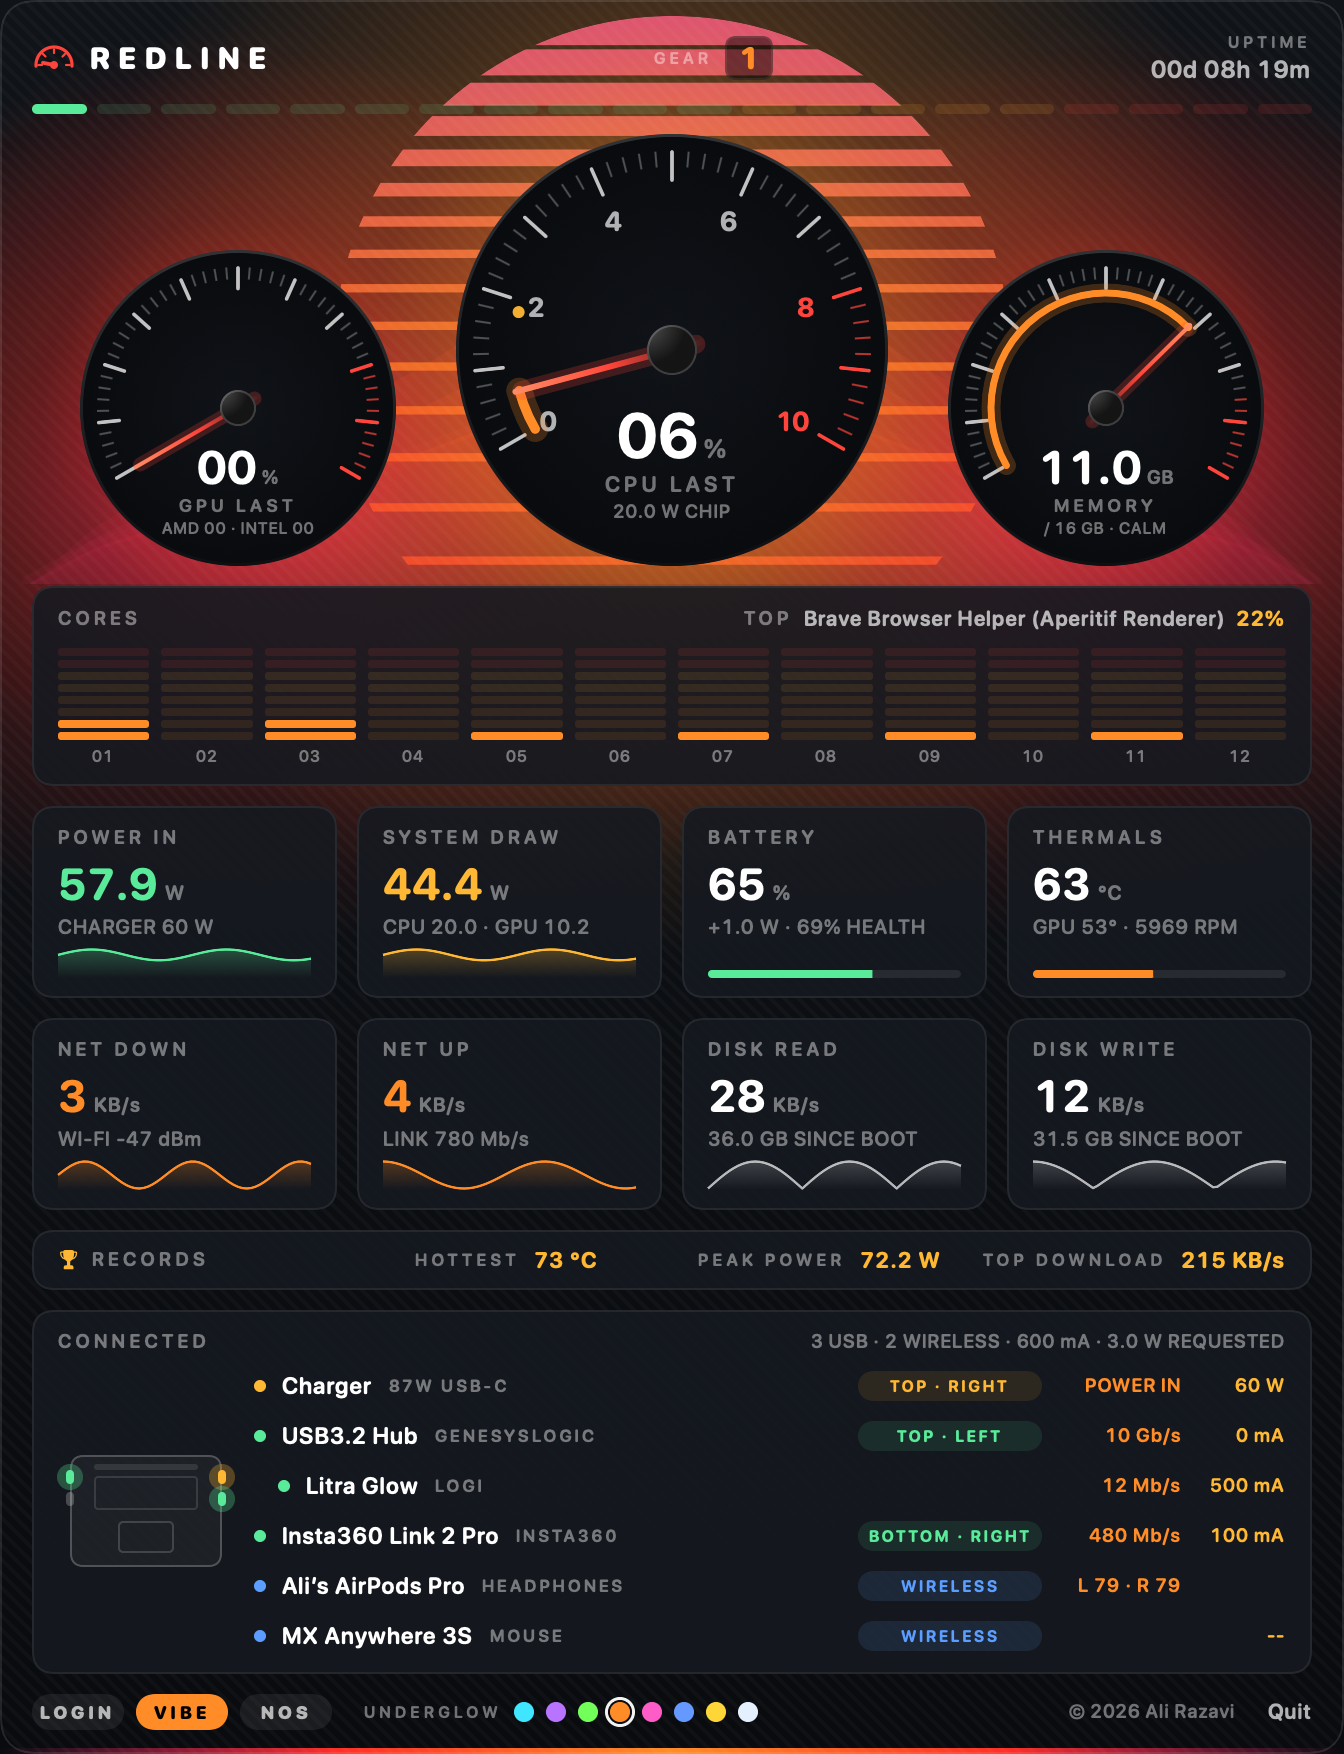
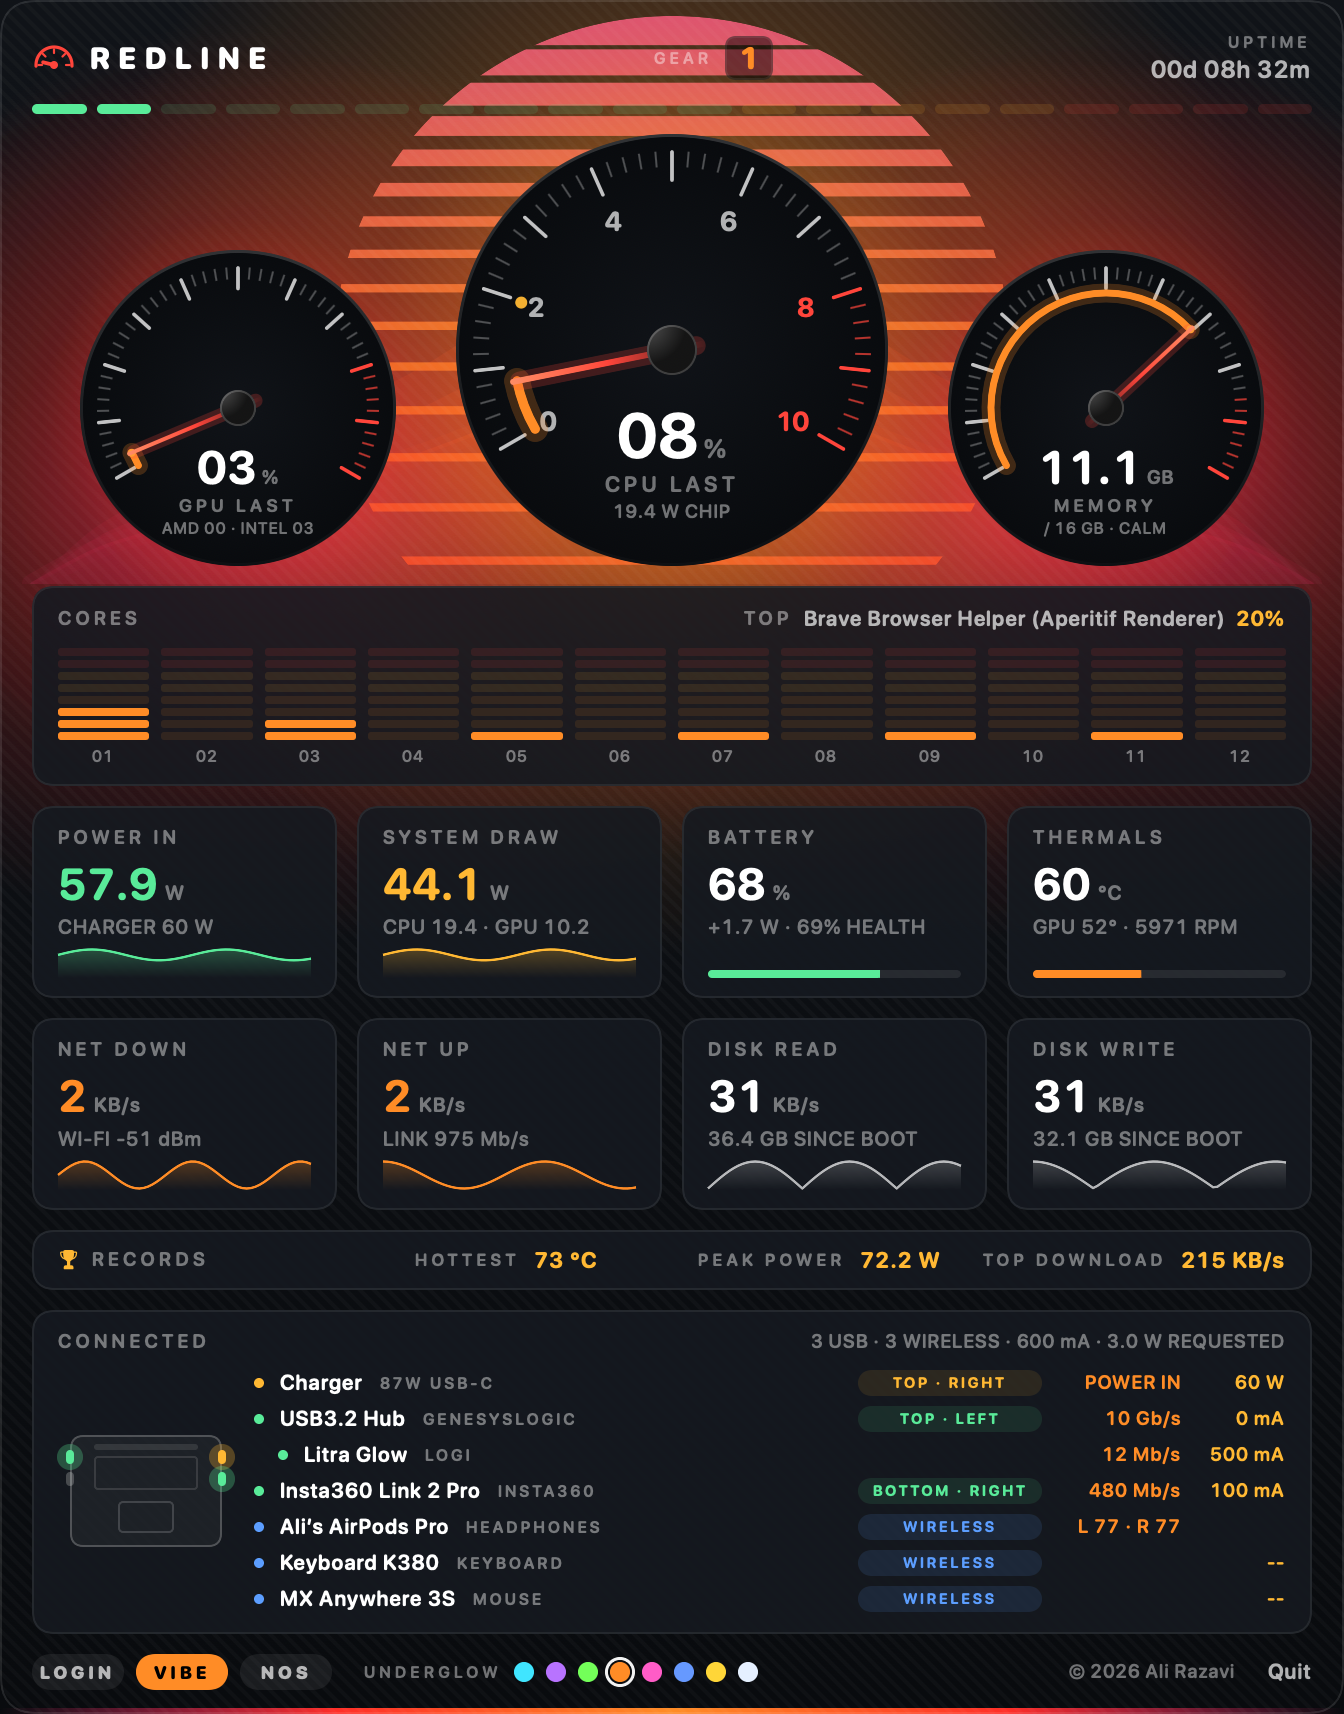
Compact device rows (eight fit); README: Touch Bar keeps the underglow colour with VIBE off

diff --git a/src/main.swift b/src/main.swift
@@ -690,53 +690,53 @@ struct Panel: View {
                 }
                 HStack(alignment: .center, spacing: 10) {
                     PortMap(lit: Set(s.usb.filter { $0.depth == 0 && $0.port > 0 }.map { m.portMap[$0.port - 1] }), charger: s.chargerSocket > 0 ? m.portMap[s.chargerSocket - 1] : nil)
-                    VStack(alignment: .leading, spacing: 7) {
-                        let room = 6 - (s.chargerSocket > 0 ? 1 : 0)       // six rows is what fits the screen
+                    VStack(alignment: .leading, spacing: 3) {
+                        let room = 8 - (s.chargerSocket > 0 ? 1 : 0)       // eight compact rows is what fits the screen
                         if s.chargerSocket > 0 {
                             HStack(spacing: 8) {
-                                Circle().fill(Ink.amber).frame(width: 6, height: 6)
-                                Text("Charger").font(.system(size: 11.5, weight: .semibold, design: .rounded)).foregroundColor(.white).lineLimit(1).layoutPriority(1)
-                                Text(s.adapterName.replacingOccurrences(of: " Power Adapter", with: "").uppercased()).font(.system(size: 8.5, weight: .semibold, design: .rounded)).tracking(1).foregroundColor(Ink.dim).lineLimit(1)
+                                Circle().fill(Ink.amber).frame(width: 5, height: 5)
+                                Text("Charger").font(.system(size: 10.5, weight: .semibold, design: .rounded)).foregroundColor(.white).lineLimit(1).layoutPriority(1)
+                                Text(s.adapterName.replacingOccurrences(of: " Power Adapter", with: "").uppercased()).font(.system(size: 8, weight: .semibold, design: .rounded)).tracking(1).foregroundColor(Ink.dim).lineLimit(1)
                                 Spacer(minLength: 4)
                                 Button(action: { m.cyclePort(s.chargerSocket) }) {
-                                    Text(PortMap.names[m.portMap[s.chargerSocket - 1]]).font(.system(size: 8, weight: .bold, design: .rounded)).tracking(0.8).foregroundColor(Ink.amber)
-                                        .frame(width: 92, height: 15).background(Capsule().fill(Ink.amber.opacity(0.10))).contentShape(Rectangle())
+                                    Text(PortMap.names[m.portMap[s.chargerSocket - 1]]).font(.system(size: 7.5, weight: .bold, design: .rounded)).tracking(0.8).foregroundColor(Ink.amber)
+                                        .frame(width: 92, height: 13).background(Capsule().fill(Ink.amber.opacity(0.10))).contentShape(Rectangle())
                                 }.buttonStyle(.plain).help("Socket \(s.chargerSocket). Wrong place? Click to move it to the next position.")
                                 Text("POWER IN").font(digits(9.5, .semibold)).foregroundColor(Ink.ice).frame(width: 62, alignment: .trailing)
                                 Text("\(s.adapterW) W").font(digits(9.5, .semibold)).foregroundColor(Ink.amber).frame(width: 44, alignment: .trailing)
-                            }.frame(height: 18)
+                            }.frame(height: 15)
                         }
                         if s.usb.isEmpty && s.wireless.isEmpty && s.chargerSocket == 0 {
-                            Text("Nothing plugged in").font(.system(size: 11, weight: .medium, design: .rounded)).foregroundColor(Ink.dim).frame(maxWidth: .infinity, alignment: .leading).frame(height: 18)
+                            Text("Nothing plugged in").font(.system(size: 11, weight: .medium, design: .rounded)).foregroundColor(Ink.dim).frame(maxWidth: .infinity, alignment: .leading).frame(height: 15)
                         }
                         ForEach(s.usb.prefix(room)) { d in
                             HStack(spacing: 8) {
-                                Circle().fill(Ink.green).frame(width: 6, height: 6).padding(.leading, CGFloat(min(d.depth, 3)) * 12)
-                                Text(d.name).font(.system(size: 11.5, weight: .semibold, design: .rounded)).foregroundColor(.white).lineLimit(1).layoutPriority(1)
-                                Text(d.vendor.uppercased()).font(.system(size: 8.5, weight: .semibold, design: .rounded)).tracking(1).foregroundColor(Ink.dim).lineLimit(1)
+                                Circle().fill(Ink.green).frame(width: 5, height: 5).padding(.leading, CGFloat(min(d.depth, 3)) * 12)
+                                Text(d.name).font(.system(size: 10.5, weight: .semibold, design: .rounded)).foregroundColor(.white).lineLimit(1).layoutPriority(1)
+                                Text(d.vendor.uppercased()).font(.system(size: 8, weight: .semibold, design: .rounded)).tracking(1).foregroundColor(Ink.dim).lineLimit(1)
                                 Spacer(minLength: 4)
                                 if d.depth == 0, d.port > 0 {
                                     Button(action: { m.cyclePort(d.port) }) {
-                                        Text(PortMap.names[m.portMap[d.port - 1]]).font(.system(size: 8, weight: .bold, design: .rounded)).tracking(0.8).foregroundColor(Ink.green)
-                                            .frame(width: 92, height: 15).background(Capsule().fill(Ink.green.opacity(0.10))).contentShape(Rectangle())
+                                        Text(PortMap.names[m.portMap[d.port - 1]]).font(.system(size: 7.5, weight: .bold, design: .rounded)).tracking(0.8).foregroundColor(Ink.green)
+                                            .frame(width: 92, height: 13).background(Capsule().fill(Ink.green.opacity(0.10))).contentShape(Rectangle())
                                     }.buttonStyle(.plain).help("Socket \(d.port). Wrong place? Click to move it to the next position.")
-                                } else { Color.clear.frame(width: 92, height: 15) }
+                                } else { Color.clear.frame(width: 92, height: 13) }
                                 Text(d.speed).font(digits(9.5, .semibold)).foregroundColor(Ink.ice).frame(width: 62, alignment: .trailing)
                                 Text("\(d.mA) mA").font(digits(9.5, .semibold)).foregroundColor(Ink.amber).frame(width: 44, alignment: .trailing)
-                            }.frame(height: 18)
+                            }.frame(height: 15)
                         }
                         ForEach(s.wireless.prefix(max(0, room - min(room, s.usb.count)))) { d in
                             HStack(spacing: 8) {
-                                Circle().fill(Ink.blue).frame(width: 6, height: 6)
-                                Text(d.name).font(.system(size: 11.5, weight: .semibold, design: .rounded)).foregroundColor(.white).lineLimit(1).layoutPriority(1)
-                                Text(d.kind.uppercased()).font(.system(size: 8.5, weight: .semibold, design: .rounded)).tracking(1).foregroundColor(Ink.dim).lineLimit(1)
+                                Circle().fill(Ink.blue).frame(width: 5, height: 5)
+                                Text(d.name).font(.system(size: 10.5, weight: .semibold, design: .rounded)).foregroundColor(.white).lineLimit(1).layoutPriority(1)
+                                Text(d.kind.uppercased()).font(.system(size: 8, weight: .semibold, design: .rounded)).tracking(1).foregroundColor(Ink.dim).lineLimit(1)
                                 Spacer(minLength: 4)
-                                Text("WIRELESS").font(.system(size: 8, weight: .bold, design: .rounded)).tracking(0.8).foregroundColor(Ink.blue)
-                                    .frame(width: 92, height: 15).background(Capsule().fill(Ink.blue.opacity(0.12)))
+                                Text("WIRELESS").font(.system(size: 7.5, weight: .bold, design: .rounded)).tracking(0.8).foregroundColor(Ink.blue)
+                                    .frame(width: 92, height: 13).background(Capsule().fill(Ink.blue.opacity(0.12)))
                                 Text(d.left != nil || d.right != nil ? "L \(d.left.map(String.init) ?? "--") · R \(d.right.map(String.init) ?? "--")" : (d.box.map { "CASE \($0)" } ?? ""))
                                     .font(digits(9.5, .semibold)).foregroundColor(Ink.ice).frame(width: 62, alignment: .trailing)
                                 Text((d.main ?? (d.left != nil ? d.box : nil)).map { "\($0) %" } ?? ((d.left ?? d.right).map { _ in "" } ?? "--")).font(digits(9.5, .semibold)).foregroundColor(Ink.amber).frame(width: 44, alignment: .trailing)
-                            }.frame(height: 18)
+                            }.frame(height: 15)
                         }
                     }
                 }
@@ -1449,7 +1449,7 @@ final class AppDelegate: NSObject, NSApplicationDelegate {
     }
     private var screenFrame: NSRect { (card.screen ?? item.button?.window?.screen ?? NSScreen.main)?.visibleFrame ?? NSRect(x: 0, y: 0, width: 1440, height: 900) }
     private func baseSize() -> NSSize { measure.sizeThatFits(in: NSSize(width: 672, height: 10_000)) }
-    private var rowCount: Int { min(6, model.s.usb.count + model.s.wireless.count + (model.s.chargerSocket > 0 ? 1 : 0)) }
+    private var rowCount: Int { min(8, model.s.usb.count + model.s.wireless.count + (model.s.chargerSocket > 0 ? 1 : 0)) }
     private func fit(place: Bool) {
         rows = rowCount
         let base = baseSize(), k = model.scale, size = NSSize(width: base.width * k, height: base.height * k), old = card.frame, vis = screenFrame

diff --git a/README.md b/README.md
@@ -32,7 +32,7 @@ Copyright (c) 2026 Ali Razavi. All rights reserved. See `LICENSE`.
 - **VIBE**: club lighting behind the dials, driven by whatever the Mac is playing: waves, a glow behind each dial, rings off the big dial on every kick, a strobe, and mirrored sparks that are released on the beat and rise higher when the music lifts. It listens only while the card is open and VIBE is on; the sound is not changed, stored or sent anywhere.
 - **Underglow**: eight looks, each its own lighting rig. Ice · CDJ (waves, a jog-wheel ring turning at 33 1/3 rpm, a few beams), Nitrous · Laser (a sweeping fan of beams and a strobe), Toxic · Radar (a radar sweep and rings from all three dials), Sunset · Sunrise (a striped sun behind the big dial), Vapor · Grid (a neon floor grid rushing towards you under a horizon), Galaxy · Warp (stars streaking outwards and a tunnel of rings), Prism · Spectrum (a rainbow band turning round the big dial), Mono · Scope (the actual sound wave as one mirrored white line on a graticule).
 - **NOS**: switches Coffee Mode (the keep-awake app) on or off. While it is on, the card runs its own red overdrive look with racing edge lights that pulses even in silence. Redline makes no sounds.
-- **Touch Bar**: if Glowstrip is running, it follows these switches. VIBE off = its standard ice look, standing still; VIBE on = the underglow you picked, moving with the music; NOS = the NOS look. The two apps talk only on this Mac (a saved setting and a local notification).
+- **Touch Bar**: if Glowstrip is running, it follows these switches. it always wears the underglow you picked; VIBE off = standing still, VIBE on = moving with the music; NOS = the NOS look. The two apps talk only on this Mac (a saved setting and a local notification).
 
 ## Limits
 
